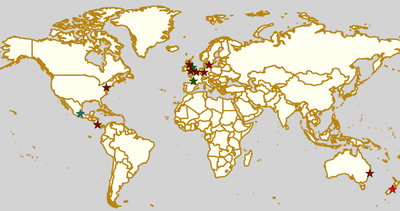
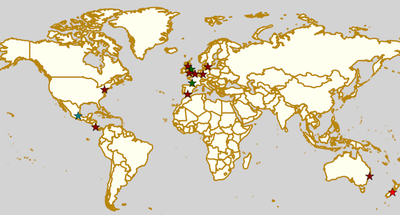
Added Las Judas' roller derby festival to 24 Aug highlights

diff --git a/output/posts/highlights/2019/weekendhighlights-24082019/index.html b/output/posts/highlights/2019/weekendhighlights-24082019/index.html
@@ -27,6 +27,7 @@
         <br><span class="tags">Tags: 
                     <a class="tag" href="../../../../categories/argentine-roller-derby/"><span>argentine roller derby</span></a>
                     <a class="tag" href="../../../../categories/australian-roller-derby/"><span>australian roller derby</span></a>
+                    <a class="tag" href="../../../../categories/bootcamps/"><span>bootcamps</span></a>
                     <a class="tag" href="../../../../categories/british-roller-derby/"><span>british roller derby</span></a>
                     <a class="tag" href="../../../../categories/costa-rican-roller-derby/"><span>costa rican roller derby</span></a>
                     <a class="tag" href="../../../../categories/french-roller-derby/"><span>french roller derby</span></a>
@@ -34,6 +35,7 @@
                     <a class="tag" href="../../../../categories/mexican-roller-derby/"><span>mexican roller derby</span></a>
                     <a class="tag" href="../../../../categories/national-tournaments/"><span>national tournaments</span></a>
                     <a class="tag" href="../../../../categories/new-zealand-roller-derby/"><span>new zealand roller derby</span></a>
+                    <a class="tag" href="../../../../categories/spanish-roller-derby/"><span>spanish roller derby</span></a>
                     <a class="tag" href="../../../../categories/swedish-roller-derby/"><span>swedish roller derby</span></a>
                     <a class="tag" href="../../../../categories/weekend-highlights/"><span>weekend highlights</span></a>
                 </span>
@@ -43,7 +45,7 @@
         </span>
         </div>
     <div>
-<p>This weekend's biggest events are in Mexico, the USA and the UK: Mexico City hosts the second Division 1 Playoffs for the Mexican National tournament, determining who will join Playoff 1 qualifiers Baja Roller Derby, All-Star Juarez and Discordias in the Championships; Sailor City Rollers represent Latin America in the second North American WFTDA Continental Cup this post season; and Riot City Rollers host the first ever Chartist Cup in Wales. Meanwhile, in Scotland, we're raising money to fight cancer with the return of Charity Roller Derby Sevens tournament, Krustfest, for a second year.</p>
+<p>This weekend's biggest events are in Mexico, the USA and the UK: Mexico City hosts the second Division 1 Playoffs for the Mexican National tournament, determining who will join Playoff 1 qualifiers Baja Roller Derby, All-Star Juarez and Discordias in the Championships; Sailor City Rollers represent Latin America in the second North American WFTDA Continental Cup this post season; and Riot City Rollers host the first ever Chartist Cup in Wales. Meanwhile, in Scotland, we're raising money to fight cancer with the return of Charity Roller Derby Sevens tournament, Krustfest, for a second year, and in Spain they're holding a Roller Derby festival!</p>
 <p>The rules are, as usual: highlights limited to 1 event per country, with an "extra" event allowed for a different kind of fixture
 (so, 1 tournament and 1 bootcamp), or if they involve Scottish leagues (since we are the <em>Scottish</em> Roller Derby Blog).
 Other notability might also allow the extra event - great posters, notable teams, etc. (League birthdays may count as "special" enough, at our discretion ;) )</p>
@@ -161,6 +163,32 @@ get themselves an actual webpage [we can help host one if you need help]).</p>
 </ul>
 <p>Event starts: 0900 Saturday</p>
 <p>Venue: Cwmbran Stadium, Cwmbran, Wales, UK</p>
+</div>
+<div class="section" id="fri-sun-malaga-spain">
+<h2>Fri-Sun: Málaga, Spain</h2>
+<p><a class="reference external" href="https://www.facebook.com/events/885591205153056/">[FACEBOOK LINK]</a></p>
+<p><a class="reference external" href="https://www.instagram.com/lasjudasrd/">Las Judas Roller Derby</a> host a three-day outdoor Roller Derby Festival, starting on Friday. Running every evening from 1800, Friday and Saturday host double-headers of themed, mixed-subscription bouts, and end with non-derby festivities, whilst the Sunday is dedicated to a Ramps workshop.</p>
+<ul class="simple">
+<li>Friday<ul>
+<li>Themed Game: FLOWER POWER versus METAL HEAD</li>
+<li>Themed Game: TRAP versus FLAMENCO</li>
+<li>WATER WAR (we think this is a water-balloon fight)</li>
+</ul>
+</li>
+<li>Saturday<ul>
+<li>Themed Game: GLITTER versus ZOMBI</li>
+<li>Themed Game: DRAG KINGS versus DRAG QUEENS</li>
+<li>ROLL THE DICE (we don't know what this is)</li>
+<li>ROLLER DISCO</li>
+</ul>
+</li>
+<li>Sunday:<ul>
+<li>Ramp Workshop (by Locas por las Ruedas)</li>
+</ul>
+</li>
+</ul>
+<p>Event starts: 1800 Friday (event opens)</p>
+<p>Venue: Skatepark Málaga "Rubén Alcántara", Camino Cuarto,  Málaga, Spain</p>
 </div>
 <div class="section" id="sat-sun-san-jose-costa-rica">
 <h2>Sat-Sun: San José, Costa Rica</h2>

diff --git a/output/index.html b/output/index.html
@@ -25,6 +25,7 @@
                 <br><span class="tags">Tags: 
                             <a class="tag" href="categories/argentine-roller-derby/"><span>argentine roller derby</span></a>
                             <a class="tag" href="categories/australian-roller-derby/"><span>australian roller derby</span></a>
+                            <a class="tag" href="categories/bootcamps/"><span>bootcamps</span></a>
                             <a class="tag" href="categories/british-roller-derby/"><span>british roller derby</span></a>
                             <a class="tag" href="categories/costa-rican-roller-derby/"><span>costa rican roller derby</span></a>
                             <a class="tag" href="categories/french-roller-derby/"><span>french roller derby</span></a>
@@ -32,12 +33,13 @@
                             <a class="tag" href="categories/mexican-roller-derby/"><span>mexican roller derby</span></a>
                             <a class="tag" href="categories/national-tournaments/"><span>national tournaments</span></a>
                             <a class="tag" href="categories/new-zealand-roller-derby/"><span>new zealand roller derby</span></a>
+                            <a class="tag" href="categories/spanish-roller-derby/"><span>spanish roller derby</span></a>
                             <a class="tag" href="categories/swedish-roller-derby/"><span>swedish roller derby</span></a>
                             <a class="tag" href="categories/weekend-highlights/"><span>weekend highlights</span></a>
                 </span>
             </div>
         <div>
-<p>This weekend's biggest events are in Mexico, the USA and the UK: Mexico City hosts the second Division 1 Playoffs for the Mexican National tournament, determining who will join Playoff 1 qualifiers Baja Roller Derby, All-Star Juarez and Discordias in the Championships; Sailor City Rollers represent Latin America in the second North American WFTDA Continental Cup this post season; and Riot City Rollers host the first ever Chartist Cup in Wales. Meanwhile, in Scotland, we're raising money to fight cancer with the return of Charity Roller Derby Sevens tournament, Krustfest, for a second year.</p>
+<p>This weekend's biggest events are in Mexico, the USA and the UK: Mexico City hosts the second Division 1 Playoffs for the Mexican National tournament, determining who will join Playoff 1 qualifiers Baja Roller Derby, All-Star Juarez and Discordias in the Championships; Sailor City Rollers represent Latin America in the second North American WFTDA Continental Cup this post season; and Riot City Rollers host the first ever Chartist Cup in Wales. Meanwhile, in Scotland, we're raising money to fight cancer with the return of Charity Roller Derby Sevens tournament, Krustfest, for a second year, and in Spain they're holding a Roller Derby festival!</p>
 <p>The rules are, as usual: highlights limited to 1 event per country, with an "extra" event allowed for a different kind of fixture
 (so, 1 tournament and 1 bootcamp), or if they involve Scottish leagues (since we are the <em>Scottish</em> Roller Derby Blog).
 Other notability might also allow the extra event - great posters, notable teams, etc. (League birthdays may count as "special" enough, at our discretion ;) )</p>

diff --git a/output/categories/bootcamps/index.html b/output/categories/bootcamps/index.html
@@ -29,6 +29,9 @@
 
     </header><ul class="postlist">
 <li>
+<time class="listdate" datetime="2019-08-20T10:00:00+01:00" title="2019-08-20 10:00">2019-08-20 10:00</time><a href="../../posts/highlights/2019/weekendhighlights-24082019/" class="listtitle">Weekend Highlights: 24 August 2019</a><a></a>
+</li>
+            <li>
 <time class="listdate" datetime="2019-08-06T19:30:00+01:00" title="2019-08-06 19:30">2019-08-06 19:30</time><a href="../../posts/highlights/2019/weekendhighlights-10082019/" class="listtitle">Weekend Highlights: 10 August 2019</a><a></a>
 </li>
             <li>

diff --git a/output/categories/spanish-roller-derby/index.html b/output/categories/spanish-roller-derby/index.html
@@ -29,6 +29,9 @@
 
     </header><ul class="postlist">
 <li>
+<time class="listdate" datetime="2019-08-20T10:00:00+01:00" title="2019-08-20 10:00">2019-08-20 10:00</time><a href="../../posts/highlights/2019/weekendhighlights-24082019/" class="listtitle">Weekend Highlights: 24 August 2019</a><a></a>
+</li>
+            <li>
 <time class="listdate" datetime="2019-07-16T14:00:00+01:00" title="2019-07-16 14:00">2019-07-16 14:00</time><a href="../../posts/highlights/2019/weekendhighlights-20072019/" class="listtitle">Weekend Highlights: 20 July 2019</a><a></a>
 </li>
             <li>

diff --git a/output/posts/highlights/2019/weekendhighlights-24082019/index.rst b/output/posts/highlights/2019/weekendhighlights-24082019/index.rst
@@ -1,14 +1,14 @@
 .. title: Weekend Highlights: 24 August 2019
 .. slug: weekendhighlights-24082019
 .. date: 2019-08-20 10:00:00 UTC+01:00
-.. tags: weekend highlights, new zealand roller derby, australian roller derby, swedish roller derby, german roller derby, british roller derby, french roller derby, costa rican roller derby, mexican roller derby, argentine roller derby, national tournaments
+.. tags: weekend highlights, new zealand roller derby, australian roller derby, swedish roller derby, german roller derby, british roller derby, french roller derby, costa rican roller derby, mexican roller derby, argentine roller derby, national tournaments, spanish roller derby, bootcamps
 .. category:
 .. link:
 .. description:
 .. type: text
 .. author: aoanla
 
-This weekend's biggest events are in Mexico, the USA and the UK: Mexico City hosts the second Division 1 Playoffs for the Mexican National tournament, determining who will join Playoff 1 qualifiers Baja Roller Derby, All-Star Juarez and Discordias in the Championships; Sailor City Rollers represent Latin America in the second North American WFTDA Continental Cup this post season; and Riot City Rollers host the first ever Chartist Cup in Wales. Meanwhile, in Scotland, we're raising money to fight cancer with the return of Charity Roller Derby Sevens tournament, Krustfest, for a second year.
+This weekend's biggest events are in Mexico, the USA and the UK: Mexico City hosts the second Division 1 Playoffs for the Mexican National tournament, determining who will join Playoff 1 qualifiers Baja Roller Derby, All-Star Juarez and Discordias in the Championships; Sailor City Rollers represent Latin America in the second North American WFTDA Continental Cup this post season; and Riot City Rollers host the first ever Chartist Cup in Wales. Meanwhile, in Scotland, we're raising money to fight cancer with the return of Charity Roller Derby Sevens tournament, Krustfest, for a second year, and in Spain they're holding a Roller Derby festival!
 
 The rules are, as usual: highlights limited to 1 event per country, with an "extra" event allowed for a different kind of fixture
 (so, 1 tournament and 1 bootcamp), or if they involve Scottish leagues (since we are the *Scottish* Roller Derby Blog).
@@ -212,6 +212,41 @@ Sat-Sun: Cwmbran, Wales, UK
 Event starts: 0900 Saturday
 
 Venue: Cwmbran Stadium, Cwmbran, Wales, UK
+
+Fri-Sun: Málaga, Spain
+--------------------------------
+
+`[FACEBOOK LINK]`__
+
+.. __: https://www.facebook.com/events/885591205153056/
+
+
+`Las Judas Roller Derby`_ host a three-day outdoor Roller Derby Festival, starting on Friday. Running every evening from 1800, Friday and Saturday host double-headers of themed, mixed-subscription bouts, and end with non-derby festivities, whilst the Sunday is dedicated to a Ramps workshop.
+
+.. _Las Judas Roller Derby: https://www.instagram.com/lasjudasrd/
+
+- Friday
+
+  - Themed Game: FLOWER POWER versus METAL HEAD
+  - Themed Game: TRAP versus FLAMENCO
+  - WATER WAR (we think this is a water-balloon fight)
+
+- Saturday
+
+  - Themed Game: GLITTER versus ZOMBI
+  - Themed Game: DRAG KINGS versus DRAG QUEENS
+  - ROLL THE DICE (we don't know what this is)
+  - ROLLER DISCO
+
+- Sunday:
+
+  - Ramp Workshop (by Locas por las Ruedas)
+
+Event starts: 1800 Friday (event opens)
+
+Venue: Skatepark Málaga "Rubén Alcántara", Camino Cuarto,  Málaga, Spain
+
+
 
 Sat-Sun: San José, Costa Rica
 --------------------------------

diff --git a/posts/highlights/2019/wknd-24Aug2019.rst b/posts/highlights/2019/wknd-24Aug2019.rst
@@ -1,14 +1,14 @@
 .. title: Weekend Highlights: 24 August 2019
 .. slug: weekendhighlights-24082019
 .. date: 2019-08-20 10:00:00 UTC+01:00
-.. tags: weekend highlights, new zealand roller derby, australian roller derby, swedish roller derby, german roller derby, british roller derby, french roller derby, costa rican roller derby, mexican roller derby, argentine roller derby, national tournaments
+.. tags: weekend highlights, new zealand roller derby, australian roller derby, swedish roller derby, german roller derby, british roller derby, french roller derby, costa rican roller derby, mexican roller derby, argentine roller derby, national tournaments, spanish roller derby, bootcamps
 .. category:
 .. link:
 .. description:
 .. type: text
 .. author: aoanla
 
-This weekend's biggest events are in Mexico, the USA and the UK: Mexico City hosts the second Division 1 Playoffs for the Mexican National tournament, determining who will join Playoff 1 qualifiers Baja Roller Derby, All-Star Juarez and Discordias in the Championships; Sailor City Rollers represent Latin America in the second North American WFTDA Continental Cup this post season; and Riot City Rollers host the first ever Chartist Cup in Wales. Meanwhile, in Scotland, we're raising money to fight cancer with the return of Charity Roller Derby Sevens tournament, Krustfest, for a second year.
+This weekend's biggest events are in Mexico, the USA and the UK: Mexico City hosts the second Division 1 Playoffs for the Mexican National tournament, determining who will join Playoff 1 qualifiers Baja Roller Derby, All-Star Juarez and Discordias in the Championships; Sailor City Rollers represent Latin America in the second North American WFTDA Continental Cup this post season; and Riot City Rollers host the first ever Chartist Cup in Wales. Meanwhile, in Scotland, we're raising money to fight cancer with the return of Charity Roller Derby Sevens tournament, Krustfest, for a second year, and in Spain they're holding a Roller Derby festival!
 
 The rules are, as usual: highlights limited to 1 event per country, with an "extra" event allowed for a different kind of fixture
 (so, 1 tournament and 1 bootcamp), or if they involve Scottish leagues (since we are the *Scottish* Roller Derby Blog).
@@ -212,6 +212,41 @@ Sat-Sun: Cwmbran, Wales, UK
 Event starts: 0900 Saturday
 
 Venue: Cwmbran Stadium, Cwmbran, Wales, UK
+
+Fri-Sun: Málaga, Spain
+--------------------------------
+
+`[FACEBOOK LINK]`__
+
+.. __: https://www.facebook.com/events/885591205153056/
+
+
+`Las Judas Roller Derby`_ host a three-day outdoor Roller Derby Festival, starting on Friday. Running every evening from 1800, Friday and Saturday host double-headers of themed, mixed-subscription bouts, and end with non-derby festivities, whilst the Sunday is dedicated to a Ramps workshop.
+
+.. _Las Judas Roller Derby: https://www.instagram.com/lasjudasrd/
+
+- Friday
+
+  - Themed Game: FLOWER POWER versus METAL HEAD
+  - Themed Game: TRAP versus FLAMENCO
+  - WATER WAR (we think this is a water-balloon fight)
+
+- Saturday
+
+  - Themed Game: GLITTER versus ZOMBI
+  - Themed Game: DRAG KINGS versus DRAG QUEENS
+  - ROLL THE DICE (we don't know what this is)
+  - ROLLER DISCO
+
+- Sunday:
+
+  - Ramp Workshop (by Locas por las Ruedas)
+
+Event starts: 1800 Friday (event opens)
+
+Venue: Skatepark Málaga "Rubén Alcántara", Camino Cuarto,  Málaga, Spain
+
+
 
 Sat-Sun: San José, Costa Rica
 --------------------------------
